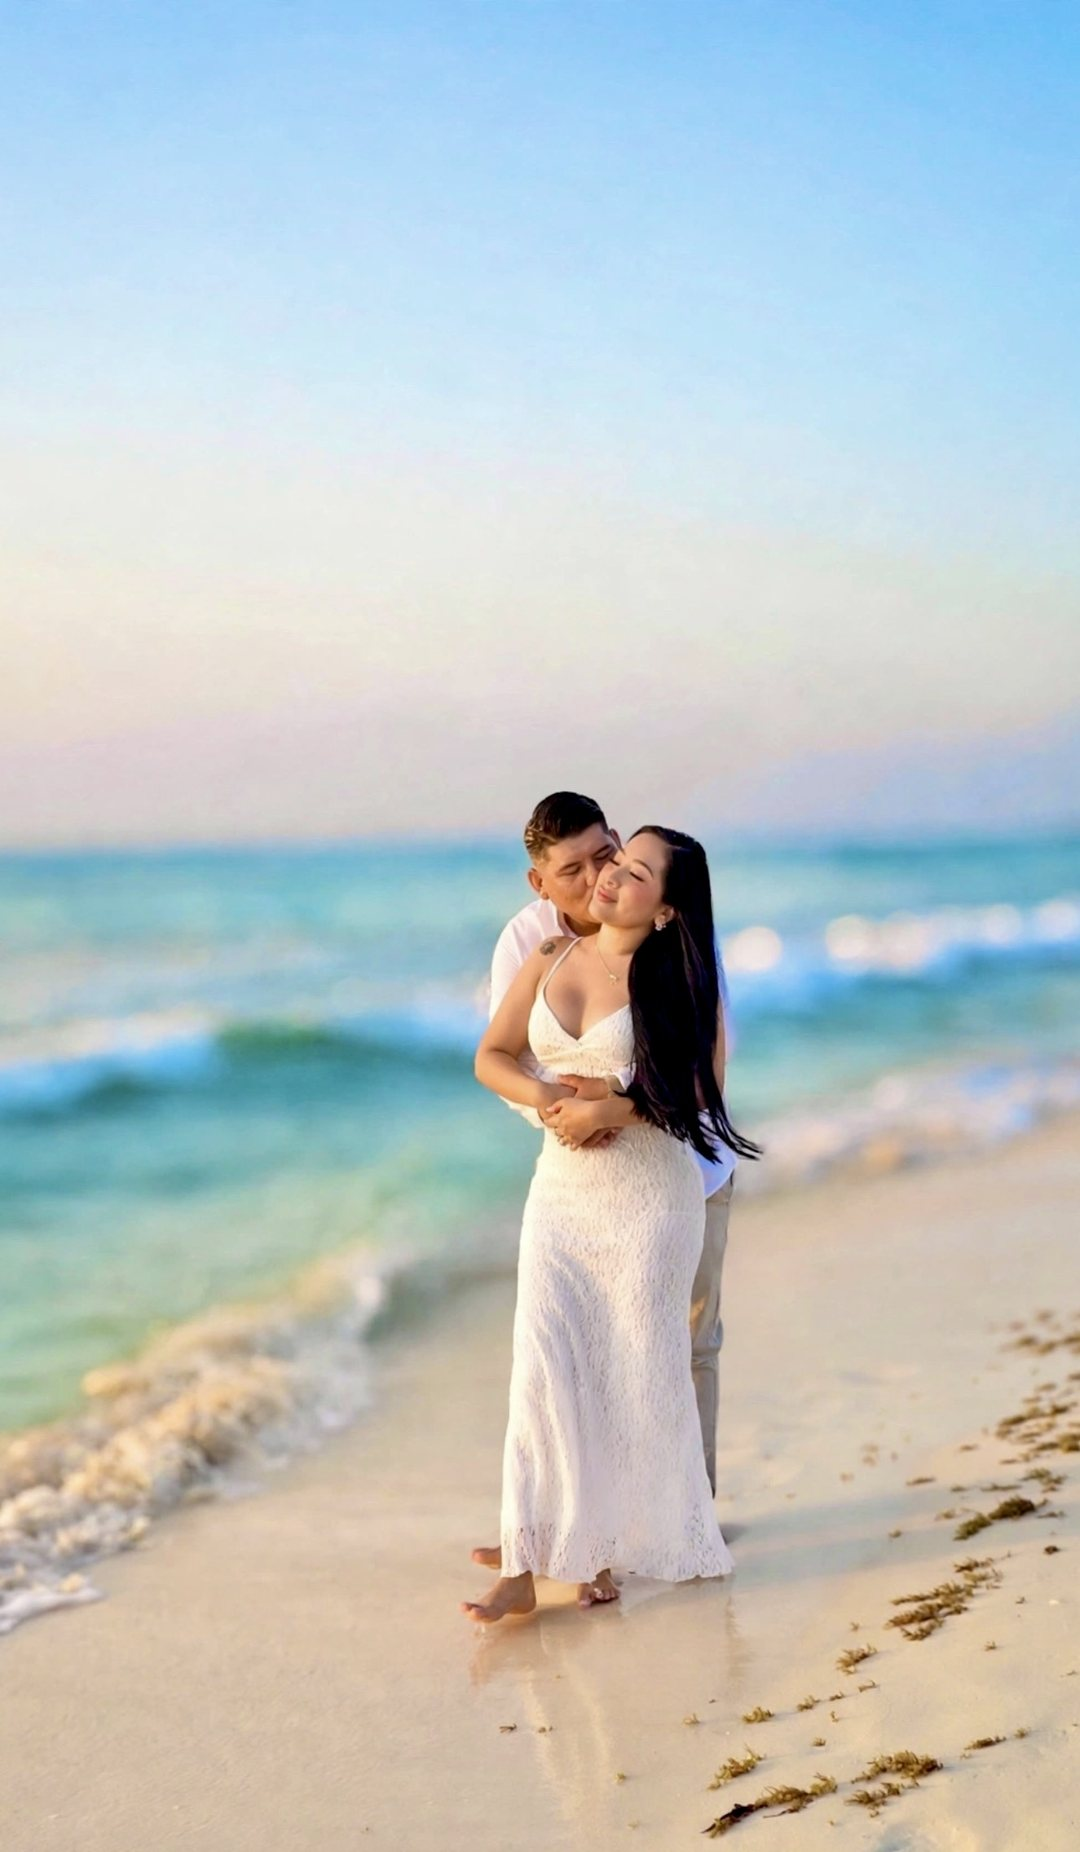
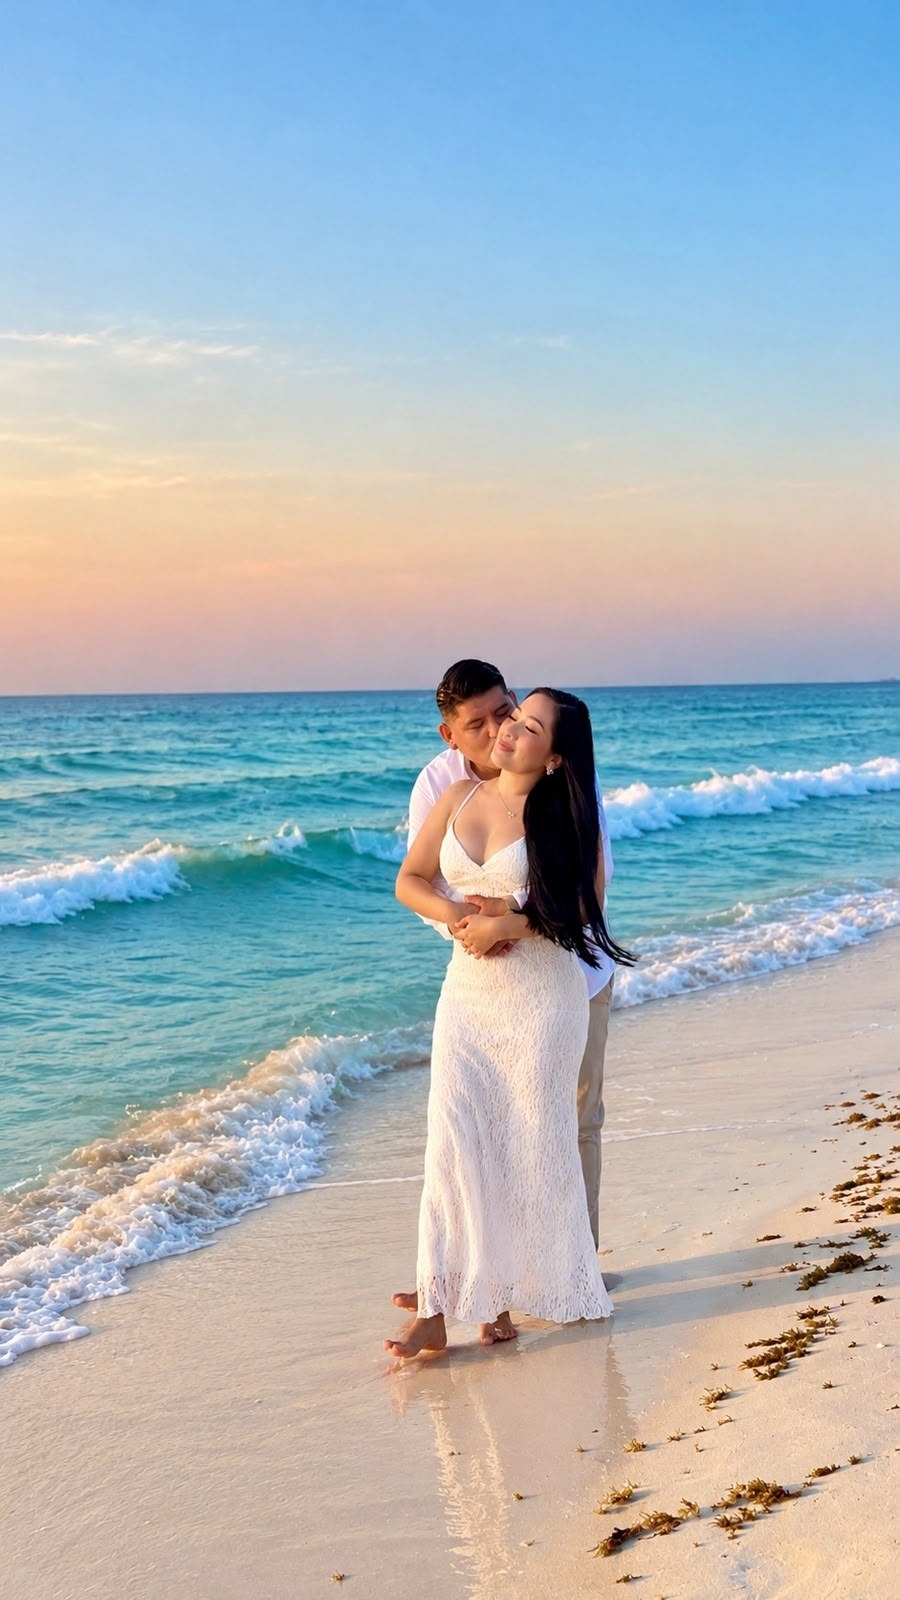
feat: fotos finales de la clienta: portada (abrazo en la orilla) y foto final (beso al atardecer)

diff --git a/index.html b/index.html
@@ -250,7 +250,7 @@ body::after{content:'';position:fixed;inset:0;z-index:50;pointer-events:none;opa
 
 /* ── FOTO FINAL ── */
 .final{position:relative;height:100vh;height:100dvh;min-height:640px;max-height:980px;overflow:hidden}
-.final img{position:absolute;inset:0;width:100%;height:100%;object-fit:cover;object-position:center 62%}
+.final img{position:absolute;inset:0;width:100%;height:100%;object-fit:cover;object-position:center 50%}
 .final::after{content:'';position:absolute;inset:0;background:linear-gradient(to top,rgba(20,16,10,.55) 0%,rgba(20,16,10,0) 38%)}
 .final-txt{position:absolute;left:0;right:0;bottom:8%;z-index:2;text-align:center;color:#fffdf7}
 .final-txt .t{font-family:var(--script);font-size:58px;line-height:1.1;text-shadow:0 2px 18px rgba(0,0,0,.45)}
